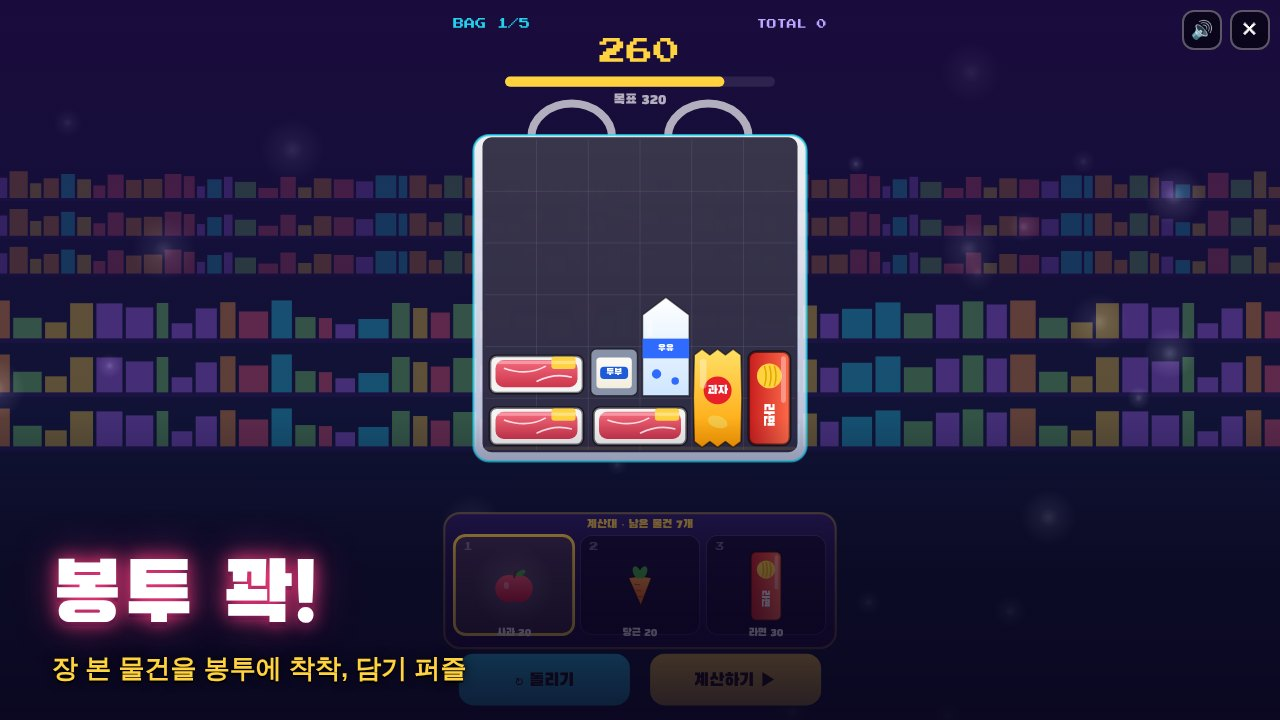
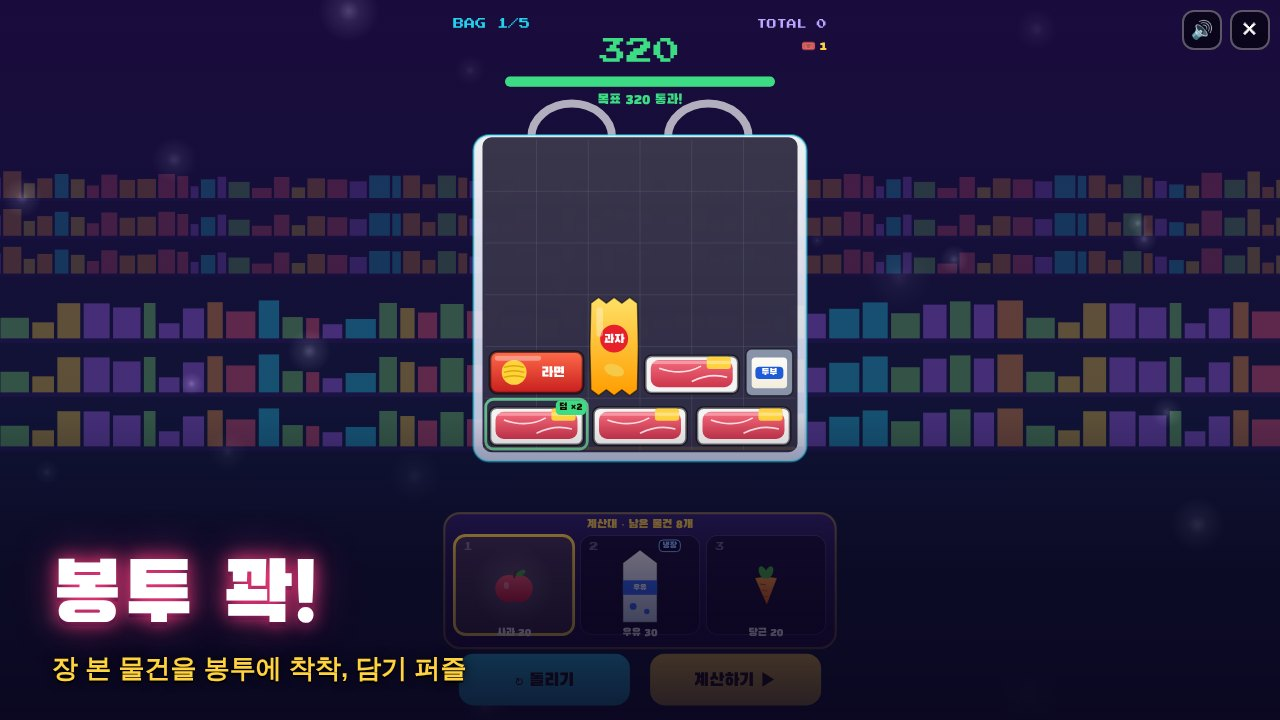
5락실: 봉투 꽉! 덤 뽑기 슬롯 + 한 상 콤보 재료 룰렛 (게임 안 화폐만), 공략 글 갱신
Claude-Session: https://claude.ai/code/session_01MeQV9tStKxfBeiEeWzhcPR

diff --git a/playground/games/bag/game.js b/playground/games/bag/game.js
@@ -2,6 +2,7 @@
 // 봉투 꽉!: 5락실 창작 장바구니 담기 퍼즐 로그라이트. 물건·봉투·배경·소리 모두 코드로 생성(외부 파일 없음).
 // 봉투(격자)에 장 본 물건을 담는다. 냉동끼리 붙이기, 무거운 건 바닥, 깨지는 건 위, 레시피 세트, 꽉 채우기로 점수.
 // 봉투마다 목표 점수를 넘기면 쿠폰(영구 효과)을 하나 고르고 다음 봉투로. 5봉투까지, 오늘은 모두 같은 물건 순서.
+// 봉투를 열 때 '덤 뽑기'(슬롯 3칸): 같은 그림 2개면 값 2배 덤 물건, 3개면 황금(3배). 다시 뽑기 티켓은 게임 안에서만 얻어요(현금·코인 없음).
 const $=id=>document.getElementById(id);
 const cab=$('bg-cab'),cv=$('bg-c'),cx=cv.getContext('2d');
 const COARSE=matchMedia('(pointer: coarse)').matches,IOS=/iP(hone|od|ad)/.test(navigator.userAgent);
@@ -30,6 +31,7 @@ const CPS=[
  {id:'same',n:'정리 달인',d:'같은 종류끼리 붙이면 +20'},{id:'big',n:'큰 봉투',d:'봉투가 한 줄 더 깊어져요'},
  {id:'tray',n:'카트 한 칸 더',d:'계산대 물건이 4개씩'},{id:'floor',n:'튼튼한 바닥',d:'무거운 것 바닥에 +30'}];
 const has=(k,t)=>IT[k].t.indexOf(t)>=0;
+const SLOT=['melon','meat','icecr','eggs'],SLOT_STOP=[0.55,0.9,1.25];
 // ── 꾸미기(겉모습만): 봉투 디자인 bag, 담을 때 효과 fx
 let BAGSK='',FXSK='';
 function look(){const B=window.Bonus;try{BAGSK=B&&B.gitem?B.gitem('bag','bag')||'':'';FXSK=B&&B.gitem?B.gitem('bag','fx')||'':''}catch(e){BAGSK=FXSK=''}}
@@ -49,19 +51,32 @@ const sTick=()=>tone('square',1200,0.04,0.03);
 const sPass=()=>{[523,659,784,1047,1319].forEach((f,i)=>tone('triangle',f,0.18,0.22,0,i*0.08));tone('sine',262,0.12,0.6)};
 const sFail=()=>{tone('triangle',392,0.22,0.3,330);tone('triangle',330,0.22,0.5,196,0.25)};
 const sRot=()=>tone('sine',520,0.08,0.06,700);
+const sLever=()=>{tone('sawtooth',90,0.12,0.18,60);noise(0.1,0.12,600)};
+const sStop=()=>{tone('square',260,0.1,0.06);noise(0.12,0.05,2400)};
+const sJack=()=>{[784,988,1175,1568,1175,1568].forEach((f,i)=>tone('square',f,0.08,0.12,0,i*0.07));tone('sine',392,0.12,0.8)};
+const sMiss=()=>{tone('triangle',330,0.12,0.15,300);tone('triangle',262,0.12,0.25,220,0.14)};
 let bgmT=null,bgmI=0;const MEL=[659,0,784,659,587,0,523,0,587,659,0,523,440,0,392,0],BAS=[131,131,175,175,196,196,131,131];
 function bgm(on){if(bgmT){clearInterval(bgmT);bgmT=null}if(!on)return;bgmT=setInterval(()=>{if(MUTE||!AC||phase==='idle'||phase==='pause')return;const m=MEL[bgmI%16];if(m)tone('sine',m,0.035,0.22);if(bgmI%2===0)tone('triangle',BAS[(bgmI>>1)%8],0.05,0.3);bgmI++},250)}
 // ── 상태
-let phase='idle',R,run,grid,rows,placed,tray,queue,sel=-1,drag=null,ghost=null,parts=[],pops=[],rings=[],shake=0,T=0,tal=null,offer=null,best=0,newBest=false,lastRun=null,ev=null,banner=null;
+let phase='idle',slot=null,R,run,grid,rows,placed,tray,queue,sel=-1,drag=null,ghost=null,parts=[],pops=[],rings=[],shake=0,T=0,tal=null,offer=null,best=0,newBest=false,lastRun=null,ev=null,banner=null;
 function bestLoad(){try{best=+localStorage.getItem('nr_best_bag_'+KST)||0}catch(e){}}
 function genRun(seed){R=seeded(seed);const qs=[],offs=[];
  for(let b=0;b<BAGS;b++){const q=[];for(let i=0;i<QLEN[b];i++){const k=POOL[Math.floor(R()*POOL.length)];const rr_=R();q.push({k,rot:rr_<0.3&&IT[k].w!==IT[k].h?1:0})}qs.push(q)}
  for(let b=0;b<BAGS-1;b++){const p=CPS.map(c=>c.id);for(let i=p.length-1;i>0;i--){const j=Math.floor(R()*(i+1));[p[i],p[j]]=[p[j],p[i]]}offs.push(p)}
- return {bag:0,total:0,cp:{},qs,offs,stats:{items:0,sets:0,broken:0,best:0,bs:[]}}}
+ return {bag:0,total:0,cp:{},qs,offs,sr:seeded(seed+'#덤'),tix:1,stats:{items:0,sets:0,broken:0,best:0,bs:[],gold:0,pair:0,miss:0,spins:0}}}
 const pw=pc=>pc.rot?IT[pc.k].h:IT[pc.k].w, ph=pc=>pc.rot?IT[pc.k].w:IT[pc.k].h;
 const BX=()=> (VW-COLS*C)/2;
 function newBag(){rows=run.cp.big?7:6;grid=[];for(let y=0;y<rows;y++)grid.push(new Array(COLS).fill(-1));placed=[];queue=run.qs[run.bag].slice();
- const n=run.cp.tray?4:3;tray=[];for(let i=0;i<n;i++)tray.push(queue.shift()||null);sel=-1;drag=null;ev=evaluate();banner={t:0,s:(run.bag+1)+'번째 봉투',s2:'목표 '+TARGET[run.bag]+'점'}}
+ tray=[];sel=-1;drag=null;ev=evaluate();phase='slot';slot={t:0,st:-1,res:null,first:true}}
+// ── 덤 뽑기: 같은 그림 2개 → 그 물건 값 2배짜리 덤, 3개 → 황금(3배). 뽑기 결과는 오늘의 판마다 같은 순서(공정).
+function slotKind(r){if(r[0]===r[1]&&r[1]===r[2])return {m:3,k:r[0]};const k=r[0]===r[1]||r[0]===r[2]?r[0]:r[1]===r[2]?r[1]:null;return k?{m:2,k}:{m:0,k:null}}
+function spin(){if(phase!=='slot'||!slot)return;if(slot.st>=0&&slot.st<3)return;if(!slot.first){if(run.tix<=0){sBad();return}run.tix--}
+ slot.first=false;slot.st=0;slot.t=0;slot.stopT=[];slot.res=[0,1,2].map(()=>SLOT[Math.floor(run.sr()*SLOT.length)]);slot.out=slotKind(slot.res);run.stats.spins++;sLever()}
+function slotDone(){return slot&&slot.st>=3}
+function takeSlot(){if(phase!=='slot'||!slot)return;if(slot.st<0){spin();return}if(!slotDone())return;const o=slot.out;
+ if(o.m){queue.unshift({k:o.k,rot:0,m:o.m});run.stats[o.m===3?'gold':'pair']++}else run.stats.miss++;
+ const n=run.cp.tray?4:3;tray=[];for(let i=0;i<n;i++)tray.push(queue.shift()||null);slot=null;phase='play';
+ banner={t:0,s:(run.bag+1)+'번째 봉투',s2:'목표 '+TARGET[run.bag]+'점'+(o.m?' · '+(o.m===3?'황금 ':'덤 ')+IT[o.k].n+' ×'+o.m:'')}}
 function fits(pc,gx,gy){const w=pw(pc),h=ph(pc);if(gx<0||gy<0||gx+w>COLS||gy+h>rows)return false;for(let y=gy;y<gy+h;y++)for(let x=gx;x<gx+w;x++)if(grid[y][x]>=0)return false;return true}
 function anyFit(pc){for(let r=0;r<2;r++){const q={k:pc.k,rot:r};for(let y=0;y<rows;y++)for(let x=0;x<COLS;x++)if(fits(q,x,y))return true}return false}
 // ── 점수 계산(봉투 전체를 매번 다시 계산 → 화면 숫자 = 계산 결과)
@@ -70,7 +85,7 @@ function evaluate(){const cp=run.cp,L={},add=(n,v)=>{if(!v)return;(L[n]=L[n]||{n
  for(let i=0;i<placed.length;i++){const a=placed[i];if(!has(a.k,'fragile'))continue;let br=false;
   for(let x=a.x;x<a.x+a.w&&!br;x++)for(let y=a.y;y<a.y+a.h&&!br;y++){if(y===0)continue;const j=grid[y-1][x];if(j>=0&&j!==i&&has(placed[j].k,'heavy'))br=true}
   if(br){if(ins){ins=false;add('깨짐 보험',0)}else broken.add(i)}}
- let sc=0;for(let i=0;i<placed.length;i++){if(broken.has(i)){add('깨짐',-20);sc-=20}else{sc+=IT[placed[i].k].p}}
+ let sc=0;for(let i=0;i<placed.length;i++){if(broken.has(i)){add('깨짐',-20);sc-=20}else{sc+=IT[placed[i].k].p*(placed[i].m||1)}}
  add('물건 값',0);if(L['물건 값'])L['물건 값'].v=sc+20*broken.size,L['물건 값'].c=placed.length-broken.size;
  // 이웃(서로 닿은 물건 쌍)
  const adj=placed.map(()=>new Set());for(let y=0;y<rows;y++)for(let x=0;x<COLS;x++){const i=grid[y][x];if(i<0)continue;if(x+1<COLS){const j=grid[y][x+1];if(j>=0&&j!==i){adj[i].add(j);adj[j].add(i)}}if(y+1<rows){const j=grid[y+1][x];if(j>=0&&j!==i){adj[i].add(j);adj[j].add(i)}}}
@@ -88,7 +103,7 @@ function evaluate(){const cp=run.cp,L={},add=(n,v)=>{if(!v)return;(L[n]=L[n]||{n
  return {sc,L,broken,done,fr}}
 // ── 놓기
 function place(si,gx,gy){const pc=tray[si];if(!pc||!fits(pc,gx,gy)){sBad();shake=0.15;return false}
- const before=ev,w=pw(pc),h=ph(pc),idx=placed.length;placed.push({k:pc.k,rot:pc.rot,x:gx,y:gy,w,h,t:0});for(let y=gy;y<gy+h;y++)for(let x=gx;x<gx+w;x++)grid[y][x]=idx;
+ const before=ev,w=pw(pc),h=ph(pc),idx=placed.length;placed.push({k:pc.k,rot:pc.rot,x:gx,y:gy,w,h,t:0,m:pc.m||0});for(let y=gy;y<gy+h;y++)for(let x=gx;x<gx+w;x++)grid[y][x]=idx;
  tray[si]=queue.shift()||null;sel=-1;run.stats.items++;ev=evaluate();
  const d=ev.sc-before.sc,X=BX()+(gx+w/2)*C,Y=BY+(gy+h/2)*C;
  pops.push({x:X,y:Y-10,t:0,s:(d>=0?'+':'')+d,c:d>=0?'#ffd23f':'#ff4d6d'});rings.push({x:X,y:Y,w:w*C,h:h*C,t:0});burst(X,Y,pc.k,10);sPlace(has(pc.k,'heavy'));
@@ -101,13 +116,14 @@ function rotate(si){const pc=tray[si];if(!pc)return;const w=IT[pc.k].w,h=IT[pc.k
 function finishBag(){if(phase!=='play')return;phase='tally';sel=-1;drag=null;const lines=Object.values(ev.L).filter(l=>l.v||l.n==='깨짐 보험');
  lines.sort((a,b)=>(a.n==='물건 값'?-1:b.n==='물건 값'?1:b.v-a.v));const pass=ev.sc>=TARGET[run.bag];
  run.stats.sets+=ev.done.length;run.stats.broken+=ev.broken.size;run.stats.best=Math.max(run.stats.best,ev.sc);run.stats.bs.push(ev.sc);
+ if(ev.fr>=0.9)run.tix++;
  run.total+=Math.max(0,ev.sc);tal={t:0,lines,sc:ev.sc,pass,shown:0,done:false}}
 function afterTally(){if(!tal||!tal.done)return;if(tal.pass&&run.bag<BAGS-1){phase='coupon';const p=run.offs[run.bag].filter(id=>!run.cp[id]).slice(0,3);offer={t:0,ids:p}}
  else{if(tal.pass){run.total+=300;run.clear=1}over()}}
-function pickCoupon(i){if(phase!=='coupon'||!offer||!offer.ids[i])return;run.cp[offer.ids[i]]=1;sPass();run.bag++;offer=null;tal=null;phase='play';newBag()}
+function pickCoupon(i){if(phase!=='coupon'||!offer||!offer.ids[i])return;run.cp[offer.ids[i]]=1;sPass();run.bag++;offer=null;tal=null;newBag()}
 function over(){phase='over';tal=null;bgm(false);newBest=false;const sc=run.total;
  if(sc>best){newBest=sc>0;best=sc;try{localStorage.setItem('nr_best_bag_'+KST,sc)}catch(e){}}
- lastRun={bs:run.stats.bs,sc,bags:run.bag+(run.clear?1:0),items:run.stats.items,sets:run.stats.sets,broken:run.stats.broken};
+ lastRun={bs:run.stats.bs,sc,bags:run.bag+(run.clear?1:0),items:run.stats.items,sets:run.stats.sets,broken:run.stats.broken,gold:run.stats.gold,pair:run.stats.pair,miss:run.stats.miss,spins:run.stats.spins};
  if(!DEBUG){if(window.Bonus)Bonus.played('bag');if(sc>0&&window.submitScore)submitScore(sc)}
  if(run.clear)sPass();else sFail();
  setTimeout(()=>{if(phase==='over'){$('bg-go').textContent='↻ 다시 장보기';$('bg-go').style.display='';$('bg-ov').style.display='flex'}},900);
@@ -123,14 +139,14 @@ function full(on){if(on){cab.classList.add('on');document.body.style.overflow='h
  else{cab.classList.remove('on');document.body.style.overflow='';if(document.fullscreenElement&&document.exitFullscreen)document.exitFullscreen().catch(()=>{})}
  setTimeout(size,60);size()}
 let prevPhase='play',seedOverride=null;
-function start(){ac();look();bestLoad();full(true);run=genRun(seedOverride||('bag'+KST));newBag();phase='play';parts=[];pops=[];rings=[];tal=null;offer=null;
+function start(){ac();look();bestLoad();full(true);run=genRun(seedOverride||('bag'+KST));newBag();parts=[];pops=[];rings=[];tal=null;offer=null;
  runT0=T;$('bg-go').style.display='none';$('bg-ov').style.display='none';$('bg-msg').textContent='물건을 끌어서 봉투에 담으세요. 한 번 더 누르면 돌아가요.';bgm(true)}
-function pause(){if(phase==='play'||phase==='tally'||phase==='coupon'){prevPhase=phase;phase='pause';$('bg-go').textContent='▶ 이어 하기';$('bg-go').style.display=''}}
+function pause(){if(phase==='play'||phase==='tally'||phase==='coupon'||phase==='slot'){prevPhase=phase;phase='pause';$('bg-go').textContent='▶ 이어 하기';$('bg-go').style.display=''}}
 function resume(){if(phase!=='pause')return;phase=prevPhase;$('bg-go').style.display='none'}
 document.addEventListener('fullscreenchange',()=>{if(!document.fullscreenElement&&cab.classList.contains('on')&&!IOS){pause();cab.classList.remove('on');document.body.style.overflow='';setTimeout(size,60)}});
 document.addEventListener('visibilitychange',()=>{if(document.hidden)pause()});
 // ── 입력
-const BTN_ROT={x:20,y:582,w:150,h:44},BTN_FIN={x:190,y:582,w:150,h:44};
+const BTN_ROT={x:20,y:582,w:150,h:44},BTN_FIN={x:190,y:582,w:150,h:44},BTN_SPIN={x:70,y:440,w:220,h:52},BTN_RE={x:30,y:440,w:144,h:52},BTN_TAKE={x:186,y:440,w:144,h:52};
 const inR=(p,b)=>p.x>=b.x&&p.x<=b.x+b.w&&p.y>=b.y&&p.y<=b.y+b.h;
 function toW(e){const r=cv.getBoundingClientRect();return {x:(e.clientX-r.left-OX)/S,y:(e.clientY-r.top-OY)/S}}
 function slotRect(i){const n=tray.length,sw=(VW-24)/n;return {x:12+i*sw+3,y:TRY,w:sw-6,h:TRH}}
@@ -143,6 +159,7 @@ cab.addEventListener('pointerdown',e=>{if(e.target.closest('button'))return;e.pr
  if(phase==='idle'){start();return}
  if(phase==='pause'){resume();return}
  if(phase==='tally'){if(tal&&!tal.done){tal.shown=tal.lines.length;tal.t=99}else afterTally();return}
+ if(phase==='slot'){if(!slot)return;if(slot.st<0){spin();return}if(!slotDone())return;if(inR(p,BTN_RE)&&run.tix>0&&slot.out.m<3){spin();return}if(inR(p,BTN_TAKE)||!(run.tix>0&&slot.out.m<3)&&inR(p,BTN_SPIN)){takeSlot();return}return}
  if(phase==='coupon'){if(!offer||offer.t<0.4)return;for(let i=0;i<offer.ids.length;i++)if(inR(p,cardRect(i))){pickCoupon(i);return}return}
  if(phase!=='play')return;
  if(inR(p,BTN_ROT)){if(sel>=0)rotate(sel);else sBad();return}
@@ -157,6 +174,7 @@ addEventListener('keydown',e=>{if(!cab.classList.contains('on')&&phase==='idle')
  if(phase==='play'){if(k==='r'||k==='R'){if(sel>=0)rotate(sel)}else if(k>='1'&&k<='4'){const i=+k-1;if(tray[i]){sel=i;sPick()}}else if(k==='Enter'){finishBag()}}
  else if(phase==='tally'&&(k==='Enter'||k===' ')){e.preventDefault();if(tal&&!tal.done){tal.shown=tal.lines.length;tal.t=99}else afterTally()}
  else if(phase==='coupon'&&k>='1'&&k<='3')pickCoupon(+k-1);
+ else if(phase==='slot'&&slot){if(k===' '||k==='Enter'){e.preventDefault();if(slot.st<0)spin();else takeSlot()}else if((k==='r'||k==='R')&&slotDone()&&slot.out.m<3)spin()}
  else if(phase==='over'&&k==='Enter'&&$('bg-go').style.display!=='none')start();
  else if(phase==='pause'&&(k===' '||k==='Enter'))resume();
  if(k==='Escape'&&phase!=='play')full(false)});
@@ -212,6 +230,10 @@ function drawItem(k,x,y,w,h,br){const p=Math.max(2,w*0.05);x+=p;y+=p;w-=p*2;h-=p
  cx.restore()}
 // 회전 반영해 그리기(px = 화면 좌표)
 function drawPiece(k,rot,x,y,cw,ch,br){const it=IT[k];if(!rot){drawItem(k,x,y,it.w*cw,it.h*ch,br);return}cx.save();cx.translate(x+it.h*cw/2,y+it.w*ch/2);cx.rotate(Math.PI/2);drawItem(k,-it.w*cw/2,-it.h*ch/2,it.w*cw,it.h*ch,br);cx.restore()}
+// 덤(×2)·황금(×3) 표시
+function mark(m,x,y,w,h){if(!m)return;const g=m===3;cx.save();cx.strokeStyle=g?'#ffd23f':'#7dffb0';cx.lineWidth=2.5*S;cx.globalAlpha=0.75+0.25*Math.sin(T*5);rr(x+1,y+1,w-2,h-2,7*S);cx.stroke();cx.globalAlpha=1;
+ if(g){cx.globalCompositeOperation='source-atop'}cx.restore();if(g)glow(x+w/2,y+h/2,Math.max(w,h)*0.6,null,0.18+0.08*Math.sin(T*4));
+ const fs=Math.round(9*S),s=(g?'황금 ':'덤 ')+'×'+m;cx.font=fs+'px '+FK;const tw=cx.measureText(s).width+fs*0.7;cx.fillStyle=g?'#ffd23f':'#3ddc84';rr(x+w-tw-2*S,y+2*S,tw,fs+4*S,4*S);cx.fill();cx.fillStyle='#1a0f00';cx.textAlign='left';cx.fillText(s,x+w-tw-2*S+fs*0.35,y+2*S+fs*0.95)}
 // 성질 배지
 const TAGC={frozen:['냉동','#22d3ee'],cold:['냉장','#7fb2ff'],fragile:['깨짐','#ff4d8a'],heavy:['무거움','#ffd23f']};
 function badges(k,x,y,s){let i=0;for(const t of ['frozen','cold','fragile','heavy']){if(!has(k,t))continue;const [n,c]=TAGC[t],fs=9*s;cx.font=fs+'px '+FK;const tw=cx.measureText(n).width+fs*0.8;cx.fillStyle='#0b0620dd';rr(x,y+i*(fs+5),tw,fs+3,4*s);cx.fill();cx.strokeStyle=c;cx.lineWidth=1;cx.stroke();cx.fillStyle=c;cx.textAlign='left';cx.fillText(n,x+fs*0.4,y+i*(fs+5)+fs*0.95);i++}}
@@ -240,7 +262,7 @@ function drawBag(front){const bx=X(BX()),by=Y(BY),bw=COLS*C*S,bh=rows*C*S,pad=10
   cx.fillStyle='#ffd23f22';cx.fillRect(bx,by+bh-3*S,bw,3*S)}
  else{cx.strokeStyle=sk==='gold'?'#fff2a8':sk==='ice'?'#ffffff':'#22d3ee';cx.lineWidth=2*S;cx.globalAlpha=0.6+0.2*Math.sin(T*2);rr(bx-pad,by-pad*0.4,bw+pad*2,bh+pad*1.4,14*S);cx.stroke();cx.globalAlpha=1}}
 function drawBagItems(){const bx=X(BX()),by=Y(BY),c=C*S;for(let i=0;i<placed.length;i++){const p=placed[i],k=Math.min(1,p.t/0.18),sc=k<1?0.7+0.3*k+Math.sin(k*3.14)*0.15:1;
-  const x0=bx+p.x*c,y0=by+p.y*c,w=p.w*c,h=p.h*c;cx.save();cx.translate(x0+w/2,y0+h/2);cx.scale(sc,sc);cx.translate(-x0-w/2,-y0-h/2);drawPiece(p.k,p.rot,x0,y0,c,c,ev&&ev.broken.has(i));cx.restore()}}
+  const x0=bx+p.x*c,y0=by+p.y*c,w=p.w*c,h=p.h*c;cx.save();cx.translate(x0+w/2,y0+h/2);cx.scale(sc,sc);cx.translate(-x0-w/2,-y0-h/2);drawPiece(p.k,p.rot,x0,y0,c,c,ev&&ev.broken.has(i));cx.restore();if(p.m&&!(ev&&ev.broken.has(i)))mark(p.m,x0,y0,w,h)}}
 function drawGhost(){if(phase!=='play')return;let pc=null,gx,gy,ok=false;
  if(drag&&drag.moved&&ghost&&tray[drag.s]){pc=tray[drag.s];const c=cellFor(pc,ghost.x,ghost.y);gx=c.gx;gy=c.gy;ok=inBag(ghost)&&fits(pc,gx,gy);
   if(inBag(ghost)){const bx=X(BX()),by=Y(BY),c2=C*S;cx.fillStyle=ok?'#3ddc8444':'#ff4d6d44';cx.strokeStyle=ok?'#3ddc84':'#ff4d6d';cx.lineWidth=2*S;
@@ -254,13 +276,13 @@ function drawTray(){const n=tray.length;
   cx.fillStyle=on?'#ffd23f22':'#0b062099';rr(X(r.x),Y(r.y+6),r.w*S,(r.h-8)*S,10*S);cx.fill();cx.strokeStyle=on?'#ffd23f':'#ffffff22';cx.lineWidth=(on?2.5:1)*S;cx.stroke();
   txt(String(i+1),X(r.x+8),Y(r.y+20),Math.round(8*S),'#ffffff55',FN,'left');
   if(!pc||(drag&&drag.moved&&drag.s===i))continue;const w=pw(pc),h=ph(pc),cs=Math.min((r.w-16)/w,(r.h-28)/h,40),pw_=w*cs,ph_=h*cs;
-  const ix=r.x+(r.w-pw_)/2,iy=r.y+10+(r.h-14-ph_)/2;if(on){glow(X(ix+pw_/2),Y(iy+ph_/2),Math.max(pw_,ph_)*S*0.9,null,0.25)}drawPiece(pc.k,pc.rot,X(ix),Y(iy),cs*S,cs*S,false);
-  txt(IT[pc.k].n+' '+IT[pc.k].p,X(r.x+r.w/2),Y(r.y+r.h-1),Math.round(10*S),'#fff',FK);badges(pc.k,X(r.x+r.w-2)-34*S,Y(r.y+10),S*0.85)}
+  const ix=r.x+(r.w-pw_)/2,iy=r.y+10+(r.h-14-ph_)/2;if(on){glow(X(ix+pw_/2),Y(iy+ph_/2),Math.max(pw_,ph_)*S*0.9,null,0.25)}drawPiece(pc.k,pc.rot,X(ix),Y(iy),cs*S,cs*S,false);if(pc.m)mark(pc.m,X(r.x+2),Y(r.y+8),(r.w-4)*S,(r.h-12)*S);
+  txt(IT[pc.k].n+' '+IT[pc.k].p*(pc.m||1),X(r.x+r.w/2),Y(r.y+r.h-1),Math.round(10*S),'#fff',FK);badges(pc.k,X(r.x+r.w-2)-34*S,Y(r.y+10),S*0.85)}
  // 버튼
  const btn=(b,s,c,on)=>{cx.fillStyle=on?c:'#2a1d5c';rr(X(b.x),Y(b.y),b.w*S,b.h*S,12*S);cx.fill();cx.strokeStyle=c;cx.lineWidth=2*S;cx.stroke();txt(s,X(b.x+b.w/2),Y(b.y+b.h/2+6),Math.round(16*S),on?'#1a0f00':c,FK)};
  btn(BTN_ROT,'↻ 돌리기','#22d3ee',sel>=0);btn(BTN_FIN,'계산하기 ▶','#ffd23f',true)}
 function drawHud(){const tg=TARGET[run.bag],sc=ev?ev.sc:0,pct=Math.max(0,Math.min(1,sc/tg));
- txt('BAG '+(run.bag+1)+'/'+BAGS,X(14),Y(26),Math.round(10*S),'#22d3ee',FN,'left');txt('TOTAL '+run.total,X(VW-14),Y(26),Math.round(9*S),'#b9a8ff',FN,'right');
+ txt('BAG '+(run.bag+1)+'/'+BAGS,X(14),Y(26),Math.round(10*S),'#22d3ee',FN,'left');txt('TOTAL '+run.total,X(VW-14),Y(26),Math.round(9*S),'#b9a8ff',FN,'right');txt('🎟 '+run.tix,X(VW-14),Y(44),Math.round(11*S),'#ffd23f',FK,'right');
  txt(String(sc),X(VW/2),Y(58),Math.round(24*S),pct>=1?'#3ddc84':'#ffd23f',FN);
  cx.fillStyle='#ffffff18';rr(X(60),Y(68),(VW-120)*S,9*S,5*S);cx.fill();cx.fillStyle=pct>=1?'#3ddc84':'#ffd23f';rr(X(60),Y(68),(VW-120)*pct*S,9*S,5*S);cx.fill();
  txt('목표 '+tg+(pct>=1?' 통과!':''),X(VW/2),Y(92),Math.round(12*S),pct>=1?'#3ddc84':'#ffffffaa',FK);
@@ -288,11 +310,30 @@ function drawCoupon(){if(!offer)return;cx.fillStyle='#050214aa';cx.fillRect(0,0,
   cx.fillStyle=lg(Y(r.y),Y(r.y+r.h),'#3a1f7a','#1e0f48');rr(X(r.x+dx),Y(r.y),r.w*S,r.h*S,14*S);cx.fill();cx.setLineDash([6*S,4*S]);cx.strokeStyle='#ffd23f';cx.lineWidth=2*S;cx.stroke();cx.setLineDash([]);
   cx.fillStyle='#ffd23f';cx.beginPath();cx.arc(X(r.x+dx+34),Y(r.y+r.h/2),20*S,0,7);cx.fill();txt('%',X(r.x+dx+34),Y(r.y+r.h/2+7),Math.round(18*S),'#1a0f00',FN);
   txt(c.n,X(r.x+dx+66),Y(r.y+34),Math.round(17*S),'#fff',FK,'left');txt(c.d,X(r.x+dx+66),Y(r.y+58),Math.round(12*S),'#d9c2ff',FK,'left');txt(String(i+1),X(r.x+dx+r.w-16),Y(r.y+22),Math.round(8*S),'#ffffff66',FN,'right');cx.globalAlpha=1}}
+function drawSlot(){if(!slot)return;cx.fillStyle='#050214b0';cx.fillRect(0,0,W,H);panel(150,360);
+ txt('덤 뽑기',X(VW/2),Y(190),Math.round(24*S),'#fff',FK);txt('같은 그림 2개 = 값 2배 덤 · 3개 = 황금 3배',X(VW/2),Y(214),Math.round(11.5*S),'#ffd23fcc',FK);
+ // 슬롯 틀
+ cx.fillStyle=lg(Y(232),Y(352),'#3a1f7a','#1e0f48');rr(X(36),Y(232),(VW-72)*S,120*S,14*S);cx.fill();cx.strokeStyle='#ffd23f';cx.lineWidth=3*S;cx.stroke();
+ for(let i=0;i<3;i++){const rx=48+i*92,ry=244,rw=80,rh=96,stopped=slot.st>i||slot.st>=3;cx.fillStyle='#fff8ec';rr(X(rx),Y(ry),rw*S,rh*S,10*S);cx.fill();
+  cx.save();rr(X(rx),Y(ry),rw*S,rh*S,10*S);cx.clip();
+  if(slot.st<0){txt('?',X(rx+rw/2),Y(ry+62),Math.round(36*S),'#b06bff',FN)}
+  else if(!stopped){const f=T*16+i*1.7,k=SLOT[Math.floor(f)%SLOT.length],off=(f%1)*rh;drawCell(k,rx,ry-rh+off,rw,rh);drawCell(SLOT[(Math.floor(f)+1)%SLOT.length],rx,ry+off,rw,rh)}
+  else{const tk=slot.stopT&&slot.stopT[i]!=null?Math.min(1,(slot.t-slot.stopT[i])/0.18):1;drawCell(slot.res[i],rx,ry+(1-tk)*-10,rw,rh)}
+  cx.restore();cx.fillStyle='rgba(0,0,0,.18)';cx.fillRect(X(rx),Y(ry),rw*S,10*S);cx.fillRect(X(rx),Y(ry+rh-10),rw*S,10*S)}
+ if(slotDone()){const o=slot.out;if(o.m){const g=o.m===3;cx.strokeStyle=g?'#ffd23f':'#3ddc84';cx.lineWidth=3*S;cx.globalAlpha=0.6+0.4*Math.sin(T*8);cx.beginPath();cx.moveTo(X(44),Y(292));cx.lineTo(X(VW-44),Y(292));cx.stroke();cx.globalAlpha=1}
+  txt(o.m?(o.m===3?'잭팟! 황금 '+IT[o.k].n+' (값 '+IT[o.k].p*3+')':'덤 '+IT[o.k].n+' (값 '+IT[o.k].p*2+')'):'꽝! 이번엔 덤이 없어요',X(VW/2),Y(384),Math.round(16*S),o.m===3?'#ffd23f':o.m?'#3ddc84':'#ff8aa0',FK);
+  txt('다시 뽑으면 지금 결과는 사라져요',X(VW/2),Y(410),Math.round(10.5*S),'#ffffff88',FK)}
+ const B=(b,s,c,on,sub)=>{cx.fillStyle=on?c:'#2a1d5c';rr(X(b.x),Y(b.y),b.w*S,b.h*S,13*S);cx.fill();cx.strokeStyle=c;cx.lineWidth=2*S;cx.stroke();txt(s,X(b.x+b.w/2),Y(b.y+b.h/2+(sub?0:6)),Math.round(16*S),on?'#1a0f00':c,FK);if(sub)txt(sub,X(b.x+b.w/2),Y(b.y+b.h/2+16),Math.round(9.5*S),on?'#1a0f00aa':c,FK)};
+ if(slot.st<0)B(BTN_SPIN,'🎰 뽑기!','#ffd23f',true,'봉투마다 1번 공짜');
+ else if(slotDone()){if(run.tix>0&&slot.out.m<3){B(BTN_RE,'다시 뽑기','#22d3ee',false,'🎟 티켓 '+run.tix+'장');B(BTN_TAKE,'받기 ▶','#ffd23f',true)}else B(BTN_SPIN,slot.out.m?'받고 시작 ▶':'그냥 시작 ▶','#ffd23f',true,slot.out.m<3&&!run.tix?'티켓은 봉투를 90% 채우면 +1':'')}
+ txt('🎟 다시 뽑기 티켓 '+run.tix+'장',X(VW/2),Y(526),Math.round(11*S),'#ffffffaa',FK)}
+function drawCell(k,rx,ry,rw,rh){const it=IT[k],cs=Math.min((rw-16)/it.w,(rh-16)/it.h,34);drawPiece(k,0,X(rx+(rw-it.w*cs)/2),Y(ry+(rh-it.h*cs)/2),cs*S,cs*S,false)}
 function drawOver(){const r=lastRun||{sc:0,bags:0,items:0,sets:0,broken:0};cx.fillStyle='#050214bb';cx.fillRect(0,0,W,H);panel(110,300);
  txt(run&&run.clear?'장보기 완료!':'오늘의 장보기 끝',X(VW/2),Y(152),Math.round(22*S),'#fff',FK);txt(String(r.sc),X(VW/2),Y(206),Math.round(32*S),'#ffd23f',FN);
  txt(newBest?'NEW BEST!':'오늘 최고 '+best,X(VW/2),Y(236),Math.round(11*S),newBest?'#3ddc84':'#ffffff99',FN);
  const st=[['통과 봉투',r.bags+'/'+BAGS],['담은 물건',r.items+'개'],['세트 완성',r.sets+'번']];for(let i=0;i<3;i++){const x=X(36+i*100);cx.fillStyle='#ffffff10';rr(x,Y(258),92*S,62*S,10*S);cx.fill();txt(st[i][0],x+46*S,Y(280),Math.round(11*S),'#ffffffaa',FK);txt(st[i][1],x+46*S,Y(308),Math.round(15*S),'#fff',FK)}
- txt(r.broken?'깨진 물건 '+r.broken+'개 · 무거운 건 아래로!':'하나도 안 깨뜨렸어요!',X(VW/2),Y(348),Math.round(12*S),r.broken?'#ff8aa0':'#3ddc84',FK);
+ txt('덤 뽑기 '+(r.spins||0)+'번 · 황금 '+(r.gold||0)+' · 덤 '+(r.pair||0)+' · 꽝 '+(r.miss||0),X(VW/2),Y(336),Math.round(11*S),'#ffd23fcc',FK);
+ txt(r.broken?'깨진 물건 '+r.broken+'개 · 무거운 건 아래로!':'하나도 안 깨뜨렸어요!',X(VW/2),Y(358),Math.round(12*S),r.broken?'#ff8aa0':'#3ddc84',FK);
  txt('PC는 Enter로 다시 시작',X(VW/2),Y(386),Math.round(10*S),'#ffffff66',FK)}
 function drawIdle(){const by=Y(150);cx.fillStyle='#0b0620aa';rr(X(30),by-40*S,(VW-60)*S,250*S,18*S);cx.fill();
  txt('봉투 꽉!',X(VW/2),by+20*S,Math.round(44*S),'#fff',FK);txt('장 본 물건을 봉투에 착착 담는 퍼즐',X(VW/2),by+52*S,Math.round(14*S),'#ffd23f',FK);
@@ -302,6 +343,7 @@ function drawPause(){cx.fillStyle='#0b0620';cx.fillRect(0,0,W,H);txt('잠깐 멈
 // ── 루프
 let last=performance.now();
 function step(dt){T+=dt;for(const p of parts){p.t+=dt;p.vy+=260*dt;p.x+=p.vx*dt;p.y+=p.vy*dt}parts=parts.filter(p=>p.t<p.l);rings.forEach(r=>r.t+=dt);rings=rings.filter(r=>r.t<0.45);pops.forEach(p=>p.t+=dt);pops=pops.filter(p=>p.t<1);
+ if(slot&&slot.st>=0&&slot.st<3){slot.t+=dt;slot.stopT=slot.stopT||[];if(slot.t>=SLOT_STOP[slot.st]){slot.stopT[slot.st]=slot.t;slot.st++;sStop();if(slot.st===3){const m=slot.out.m;if(m===3){sJack();shake=0.3}else if(m)sSet();else sMiss()}}}
  if(placed)for(const p of placed)p.t+=dt;if(banner)banner.t+=dt;if(shake>0)shake=Math.max(0,shake-dt);if(offer)offer.t+=dt;
  if(tal&&!tal.done){tal.t+=dt;const want=Math.floor(tal.t/0.28);if(want>tal.shown&&tal.shown<tal.lines.length){tal.shown++;sTick()}if(tal.shown>=tal.lines.length&&tal.t>tal.lines.length*0.28+0.3){tal.done=true;tal.pass?sPass():sFail()}}}
 function frame(now){const dt=Math.min(0.05,(now-last)/1000);last=now;
@@ -312,20 +354,21 @@ function frame(now){const dt=Math.min(0.05,(now-last)/1000);last=now;
  if(shake>0){const m=shake*14*S;cx.translate((Math.random()-0.5)*m,(Math.random()-0.5)*m)}
  drawBg();
  if(phase==='idle'){drawIdle()}
- else if(run){drawHud();drawBag(false);drawBagItems();drawBag(true);if(phase==='play'||phase==='tally'||phase==='coupon')drawTray();drawGhost();drawFx();if(phase==='tally')drawTally();if(phase==='coupon')drawCoupon();if(phase==='over')drawOver()}
+ else if(run){drawHud();drawBag(false);drawBagItems();drawBag(true);if(phase==='play'||phase==='tally'||phase==='coupon')drawTray();drawGhost();drawFx();if(phase==='tally')drawTally();if(phase==='coupon')drawCoupon();if(phase==='slot')drawSlot();if(phase==='over')drawOver()}
  requestAnimationFrame(frame)}
 // ── 디버그(포스터·쇼츠·점수 확인용): 욕심쟁이 봇
-const DBG={bot:false,fast:0,acc:0};
+const DBG={bot:false,fast:0,acc:0,reroll:true};
 function bestMove(){let bm=null;const base=ev.sc;for(let s=0;s<tray.length;s++){const pc=tray[s];if(!pc)continue;for(let r=0;r<2;r++){const q={k:pc.k,rot:r};if(r&&IT[pc.k].w===IT[pc.k].h)continue;
   for(let y=0;y<rows;y++)for(let x=0;x<COLS;x++){if(!fits(q,x,y))continue;const idx=placed.length;placed.push({k:q.k,rot:r,x,y,w:pw(q),h:ph(q),t:1});for(let yy=y;yy<y+ph(q);yy++)for(let xx=x;xx<x+pw(q);xx++)grid[yy][xx]=idx;
    const v=evaluate().sc-base+(y+ph(q))*0.5;placed.pop();for(let yy=y;yy<y+ph(q);yy++)for(let xx=x;xx<x+pw(q);xx++)grid[yy][xx]=-1;if(!bm||v>bm.v)bm={s,r,x,y,v}}}}return bm}
 function botStep(){DBG.acc++;if(DBG.acc%(DBG.fast?1:8))return;
  if(phase==='play'){const m=bestMove();if(m&&m.v>-5){tray[m.s].rot=m.r;place(m.s,m.x,m.y)}else finishBag()}
  else if(phase==='tally'){if(!tal.done){tal.shown=tal.lines.length;tal.t=99}else afterTally()}
- else if(phase==='coupon'&&offer&&offer.t>0.4)pickCoupon(0)}
+ else if(phase==='coupon'&&offer&&offer.t>0.4)pickCoupon(0);
+ else if(phase==='slot'&&slot){if(slot.st<0)spin();else if(slotDone()){if(!slot.out.m&&run.tix>0&&DBG.reroll)spin();else takeSlot()}}}
 if(DEBUG)window.__bg={dbg:DBG,start,bot(on){DBG.bot=!!on},seed(s){seedOverride=s},
- state:()=>({phase,bag:run?run.bag:0,score:ev?ev.sc:0,total:run?run.total:0,last:lastRun}),
+ state:()=>({slot:slot?{st:slot.st,res:slot.res,out:slot.out}:null,tix:run?run.tix:0,phase,bag:run?run.bag:0,score:ev?ev.sc:0,total:run?run.total:0,last:lastRun}),
  auto(n){for(let i=0;i<n&&phase==='play';i++){const m=bestMove();if(!m)break;tray[m.s].rot=m.r;place(m.s,m.x,m.y)}},
- setLook(b,f){BAGSK=b||'';FXSK=f||''},sel(i){sel=i}};
+ setLook(b,f){BAGSK=b||'';FXSK=f||''},sel(i){sel=i},spin,take:takeSlot};
 look();bestLoad();size();requestAnimationFrame(frame);
 })();

diff --git a/playground/games/bag/body.html b/playground/games/bag/body.html
@@ -7,6 +7,7 @@
 <h2>규칙</h2><ul class="list">
 <li>봉투는 가로 6칸 × 세로 6칸이에요. 봉투마다 물건이 17~21개 차례로 계산대에 3개씩 올라오고, 하나를 담으면 다음 물건이 채워져요. 물건마다 크기가 달라서 다 담을 수는 없어요. 고르는 게 실력이에요.</li>
 <li>물건을 끌어서 봉투에 놓으면 담겨요. 계산대의 물건을 한 번 더 누르거나 '돌리기'를 누르면 가로·세로가 바뀝니다. 한 번 담은 물건은 뺄 수 없어요.</li>
+<li>봉투를 열 때마다 '덤 뽑기' 슬롯을 한 번 공짜로 돌려요. 같은 그림 2개면 값 2배 덤 물건, 3개면 황금(값 3배) 물건이 계산대 맨 앞에 올라와요. 결과가 아쉬우면 다시 뽑기 티켓으로 한 번 더! 티켓은 봉투를 90% 넘게 채우면 1장씩 생기고, 게임 밖 돈이나 코인은 쓰지 않아요.</li>
 <li>점수 = 물건 값(20~60점) + 보너스. 냉동끼리 닿으면 +20(냉기 유지), 냉동과 냉장이 닿으면 +10, 같은 종류(과자·과일·채소·생활용품)끼리 닿으면 +10, 무거운 물건(수박·생수·세제)이 봉투 바닥에 닿으면 +15.</li>
 <li><b>깨짐</b>: 계란·두부·과자 바로 위 칸에 무거운 물건이 있으면 깨져서 그 물건 값 대신 -20점이에요.</li>
 <li><b>레시피 세트</b>: 라면+계란+대파, 두부+고기+대파(찌개), 고기+당근+대파(카레)가 서로 이어 닿으면 +80, 수박+아이스크림은 +50.</li>

diff --git a/playground/games/hansang/body.html b/playground/games/hansang/body.html
@@ -13,6 +13,7 @@
 <li>'버리기'는 고른 카드를 버리고 새로 뽑아요. 하루 4번은 공짜, 다 쓰면 한 턴을 써서 버려요.</li>
 <li>손님이 기다리다 가 버리면 하트 -1. 하트 3개를 다 잃으면 장사 끝. 5일을 버티면 남은 하트 하나당 +100원.</li>
 <li>하루 장사가 끝나면 재료 꾸러미나 '넓은 도마'(손 9장) 같은 준비물을 하나 골라요. 오늘은 모두 같은 시작 덱·같은 손님 순서예요.</li>
+<li>준비물을 고르기 전에 '재료 룰렛'을 한 번 공짜로 돌려요. 고기·계란·시금치 카드, 팁 50원, 연속 +2 중 하나가 나오거나 꽝! 아쉬우면 그날 매출에서 30원, 60원… 내고 다시 돌릴 수 있어요. 게임 밖 돈이나 코인은 쓰지 않아요.</li>
 </ul>
 <h2>레시피 한눈에 보기</h2>
 <table class="hs-t"><tr><th>요리</th><th>재료</th><th>값</th></tr>

diff --git a/playground/guides/bag.md b/playground/guides/bag.md
@@ -1,6 +1,6 @@
 ---
 title: 봉투 꽉! 공략: 물건 값표, 냉동·깨짐 규칙과 봉투별 목표 점수
-description: 봉투 꽉!에서 물건 15가지의 값과 크기, 냉동끼리 붙일 때 보너스, 계란·두부가 깨지는 조건, 레시피 세트 네 가지, 봉투별 목표 점수와 쿠폰 고르는 법을 숫자로 정리했어요.
+description: 봉투 꽉!에서 물건 15가지의 값과 크기, 냉동끼리 붙일 때 보너스, 계란·두부가 깨지는 조건, 레시피 세트 네 가지, 봉투별 목표 점수, 덤 뽑기 확률과 다시 뽑을 때의 기준, 쿠폰 고르는 법을 숫자로 정리했어요.
 game: bag
 updated: 2026-11-19
 ---
@@ -59,12 +59,33 @@ updated: 2026-11-19
 
 봉투마다 목표 점수가 있어요. 1번째 320, 2번째 420, 3번째 520, 4번째 620, 5번째 720점입니다. 못 넘으면 그 자리에서 끝나고, 그때까지 통과한 봉투 점수가 합쳐져 최종 점수가 돼요. 5봉투를 모두 통과하면 장보기 완료 보너스 +300점이 붙습니다. 시간 제한은 없으니 천천히 놓아도 괜찮아요.
 
+## 덤 뽑기: 확률과 다시 뽑는 기준
+봉투를 열 때마다 슬롯 3칸짜리 '덤 뽑기'를 한 번 공짜로 돌려요. 칸마다 수박·고기·아이스크림·계란 네 그림 중 하나가 같은 확률로 나옵니다.
+
+| 결과 | 확률 | 받는 것 |
+|---|---|---|
+| 같은 그림 3개(황금) | 4/64, 약 6% | 그 물건 황금판, 값 3배 |
+| 같은 그림 2개(덤) | 36/64, 약 56% | 그 물건 덤, 값 2배 |
+| 모두 다름(꽝) | 24/64, 약 38% | 없음 |
+
+덤 물건은 계산대 맨 앞에 올라오고, 봉투에 담아야 점수가 돼요. 값만 2배·3배가 되고 크기와 성질(냉동·깨짐 등)은 그대로라, 황금 계란도 무거운 물건 밑에 깔리면 깨집니다. 2배짜리 덤 값은 수박 120, 고기 90, 계란 80, 아이스크림 50점이에요.
+
+결과가 마음에 안 들면 **다시 뽑기 티켓**으로 한 번 더 돌릴 수 있어요. 티켓은 판을 시작할 때 1장이고, 봉투를 90% 넘게 채워 계산할 때마다 1장씩 늘어요. 대신 다시 돌리면 지금 결과는 사라집니다. 한 번 돌렸을 때 기대값을 계산하면 약 56점이라서,
+
+- **꽝**이면 무조건 다시 뽑는 게 이득이에요. 잃을 게 없으니까요.
+- **덤 아이스크림(50점)**은 기대값보다 조금 낮지만, 1칸짜리라 마지막 빈칸 메우기와 냉동 보너스에 좋아서 그냥 받는 편이 나아요.
+- **덤 계란·고기·수박(80점 이상)**은 받는 게 맞아요. 다시 돌리면 평균적으로 손해예요.
+
+뽑기 순서도 오늘의 판마다 같아서, 같은 날 같은 순서로 뽑으면 같은 결과가 나와요. 운이 아니라 '언제 티켓을 쓰느냐'가 순위를 가릅니다.
+
 ## 테스트하면서 알게 된 것
 게임을 만들면서 단순한 자동 플레이로 서로 다른 판을 8번 돌려 봤어요. 매번 '지금 놓을 수 있는 자리 중 점수가 가장 많이 오르는 곳'에만 놓는, 앞을 내다보지 않는 방식이었어요.
 
 - 8판 모두 5봉투를 통과했고, 최종 점수는 4,280~4,830점이었어요. 봉투 하나당 점수는 대개 650~1,000점 사이였어요.
 - 레시피 세트는 한 판(5봉투)에 4~7번밖에 안 나왔어요. 봉투 하나에 한 번꼴이에요. 그 자리에서 점수가 높은 곳만 고르면 재료가 서로 떨어진 곳에 놓이기 쉬워서예요. 사람이 대파 자리를 미리 비워 두면 이보다 훨씬 자주 나와요.
 - 깨진 물건은 8판 동안 0개였어요. 깨짐은 -60점(계란 기준)이라 점수만 봐도 피하게 되기 때문이에요. 반대로 말하면, 깨짐 보험 쿠폰은 실수가 잦은 처음 몇 판에만 쓸모가 커요.
+
+덤 뽑기를 넣은 뒤 같은 자동 플레이로 다른 판 8번을 다시 돌렸어요(꽝이 나오면 티켓이 있는 한 다시 뽑는 규칙). 최종 점수는 4,765~5,520점으로 올랐고, 봉투 40개에서 황금 4번, 덤 35번, 꽝 1번을 받았어요. 봉투를 꽉 채우는 일이 잦아서 티켓이 모자란 적은 거의 없었어요. 사람이 할 때는 꽉 채우기를 놓치는 봉투가 생기니 티켓을 아껴 쓰게 될 거예요.
 
 처음 만들 때는 봉투 하나에 물건이 13~17개 나왔는데, 그러면 거의 다 들어가서 고를 일이 없었어요. 그래서 지금처럼 17~21개로 늘려 '안 담을 물건'을 고르게 바꿨어요. 휴지 같은 큰 물건을 과감히 넘기는 게 실력 차이가 나는 지점이에요.
 

diff --git a/playground/guides/hansang.md b/playground/guides/hansang.md
@@ -1,6 +1,6 @@
 ---
 title: 한 상 콤보 공략: 손님 놓치지 않는 순서, 연속 서빙 계산과 준비물 고르기
-description: 한 상 콤보에서 손님 인내심이 줄어드는 규칙, 연속 서빙 보너스와 팁 계산, 재료 카드가 몇 장씩 들어 있는지, 버리기를 언제 쓰는지, 날마다 고르는 준비물 10가지를 실제 테스트 판 숫자와 함께 정리했어요.
+description: 한 상 콤보에서 손님 인내심이 줄어드는 규칙, 연속 서빙 보너스와 팁 계산, 재료 카드가 몇 장씩 들어 있는지, 버리기를 언제 쓰는지, 날마다 고르는 준비물 10가지, 하루 마감 재료 룰렛 확률과 다시 돌리는 기준을 실제 테스트 판 숫자와 함께 정리했어요.
 game: hansang
 updated: 2026-11-19
 ---
@@ -46,6 +46,30 @@ updated: 2026-11-19
 - 포장으로 나간 요리가 한 판에 16~26그릇으로, 맞춘 그릇보다 많았어요. 연속 서빙 최고 기록도 2~4번에 머물렀어요.
 
 이 숫자에서 알 수 있는 건, 버리기를 '주문에 안 쓰이는 카드 정리'에만 쓰면 연속이 잘 이어지지 않는다는 점이에요. 사람이 할 때는 다음 손님 주문까지 미리 보고, 두 손님이 같이 쓰는 재료(계란·파)를 남겨 두는 식으로 하면 이보다 훨씬 높은 점수가 나옵니다.
+
+## 하루 마감 재료 룰렛
+1~4일째 장사가 끝나면 준비물을 고르기 전에 재료 룰렛을 한 번 공짜로 돌려요. 8칸이 모두 같은 크기라 칸마다 확률은 1/8이에요.
+
+| 칸 | 받는 것 |
+|---|---|
+| 고기 2장 | 덱에 고기 2장 |
+| 계란 2장 | 덱에 계란 2장 |
+| 시금치 2장 | 덱에 시금치 2장 |
+| 김·당면 | 덱에 김 1장, 당면 1장 |
+| 팁 +50원 | 매출에 바로 50원 |
+| 연속 +2 | 연속 서빙 횟수가 바로 2 오름 |
+| 꽝(2칸) | 없음 |
+
+결과가 아쉬우면 **매출을 내고 다시 돌릴 수 있어요.** 같은 날 두 번째는 30원, 세 번째는 60원, 네 번째는 90원으로 점점 비싸져요. 다시 돌리면 지금 결과는 사라지고, 낸 돈은 점수(매출)에서 빠져요. 게임 밖 돈이나 코인은 전혀 쓰지 않아요.
+
+다시 돌릴지 정할 때 기준은 이래요.
+
+- **꽝(25%)이면 30원 한 번은 돌릴 만해요.** 다시 돌리면 75% 확률로 뭔가 받고, 그중 팁 하나만 나와도 50원이라 본전 이상이에요.
+- **연속 +2**는 연속이 이어지고 있을 때 가장 커요. 연속 3번째에 받으면 다음 그릇부터 값이 1.4배가 아니라 1.8배가 돼요. 다음 날 첫 요리에서 포장을 내면 사라지니 조심하세요.
+- **김·당면**은 김밥·잡채 주문이 섞이기 시작하는 3일째 이후에 값어치가 커요. 첫날 마감에 나오면 다른 재료가 더 쓸모 있어요.
+- 60원 넘게 내고 세 번째를 돌리는 건 대개 손해예요. 재료 카드 2장의 값어치가 그 정도는 안 되거든요.
+
+룰렛을 넣은 뒤 같은 자동 플레이로 다른 판 8번을 다시 돌렸어요(꽝이면 30원 내고 한 번만 다시 돌리는 규칙). 4판이 5일을 버텼고 매출은 285~1,844원이었어요. 룰렛은 모두 32번 돌았고, 받기로 한 26번 중 25번이 당첨이었어요. 다시 돌리는 데 쓴 돈은 한 판에 0~60원이었어요.
 
 ## 날마다 고르는 준비물
 하루 장사가 끝나면 준비물 3개 중 하나를 골라요. 덱에 재료를 넣는 것과 규칙을 바꾸는 것 두 종류가 있어요.
